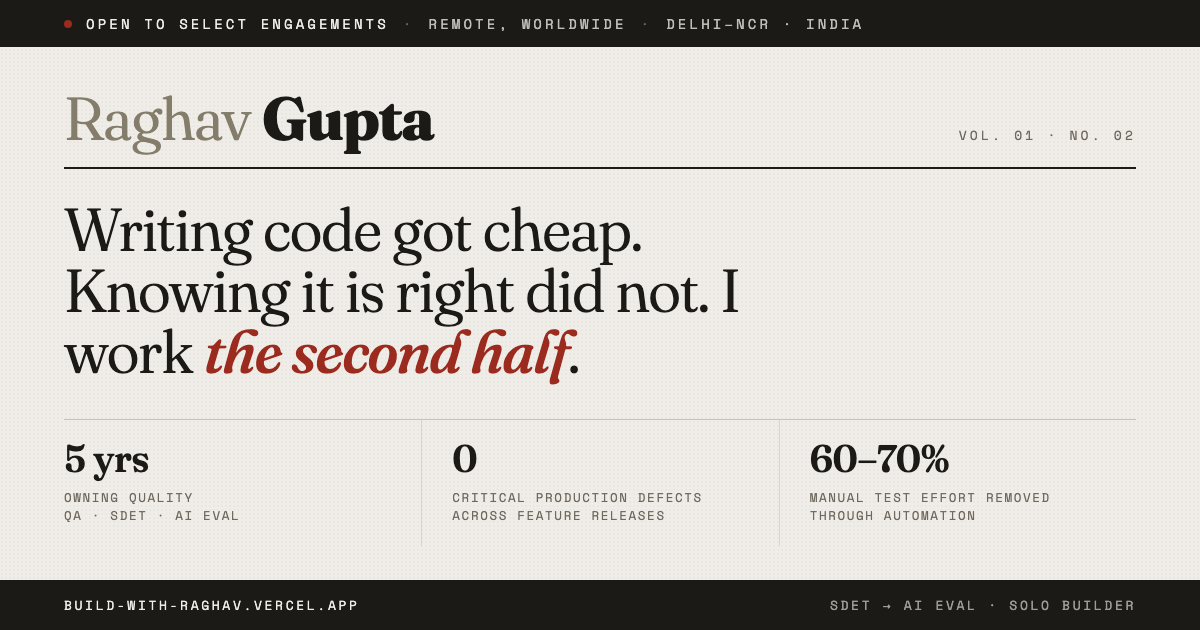
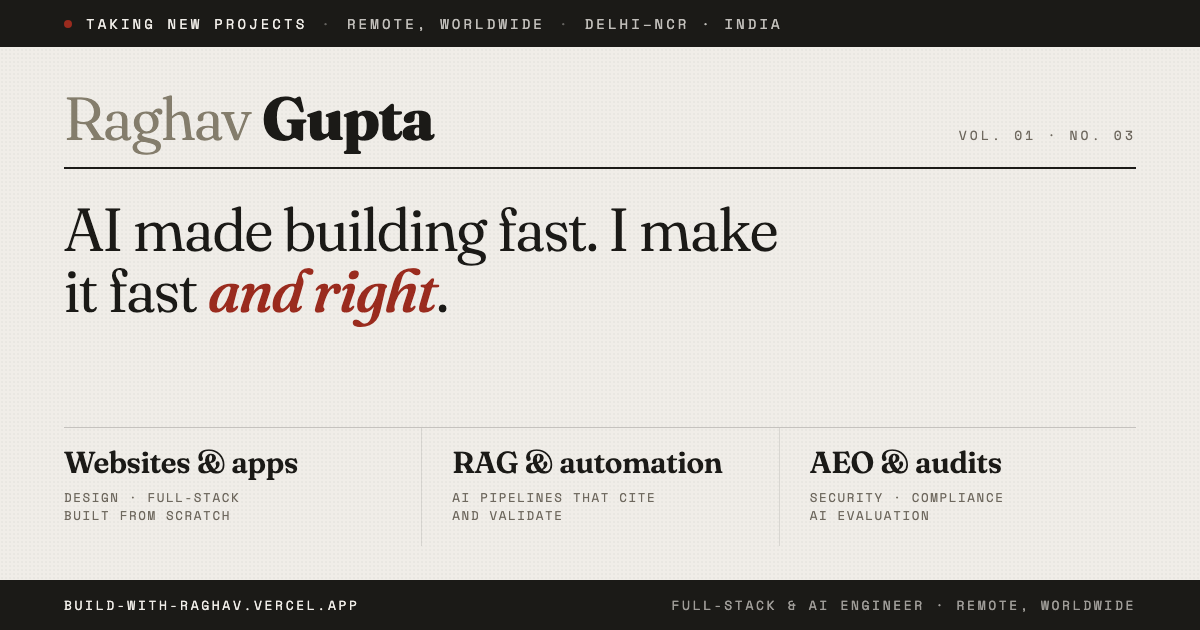
chore(og): re-shoot the social card with the new headline

diff --git a/scripts/og-image.html b/scripts/og-image.html
@@ -53,7 +53,7 @@
     border-top:1px solid var(--rule);padding-bottom:34px}
   .fig{padding:20px 30px;border-left:1px solid var(--rule-soft)}
   .fig:first-child{border-left:0;padding-left:0}
-  .fig .n{font-family:var(--display);font-weight:600;font-size:38px;line-height:1;letter-spacing:-.01em}
+  .fig .n{font-family:var(--display);font-weight:600;font-size:30px;line-height:1;letter-spacing:-.01em}
   .fig .l{font-family:var(--mono);font-size:12.5px;letter-spacing:.13em;text-transform:uppercase;
     color:var(--muted);margin-top:11px;line-height:1.5}
   .foot{background:var(--ink);color:rgba(240,237,232,.62);font-family:var(--mono);font-size:13px;
@@ -65,7 +65,7 @@
 <body>
   <div class="ribbon">
     <span class="dot"></span>
-    <span class="b">Open to select engagements</span>
+    <span class="b">Taking new projects</span>
     <span class="sep">·</span>
     <span>Remote, worldwide</span>
     <span class="sep">·</span>
@@ -75,30 +75,30 @@
   <div class="body">
     <div class="brand">
       <span class="wordmark"><span class="a1">Raghav</span><span class="a2">Gupta</span></span>
-      <span class="issue">Vol. 01 · No. 02</span>
+      <span class="issue">Vol. 01 · No. 03</span>
     </div>
 
-    <h1>Writing code got cheap. Knowing it is right did not. I work <em>the second half</em>.</h1>
+    <h1>AI made building fast. I make it fast <em>and right</em>.</h1>
 
     <div class="figures">
       <div class="fig">
-        <div class="n">5 yrs</div>
-        <div class="l">Owning quality<br />QA · SDET · AI eval</div>
+        <div class="n">Websites &amp; apps</div>
+        <div class="l">Design · full-stack<br />built from scratch</div>
       </div>
       <div class="fig">
-        <div class="n">0</div>
-        <div class="l">Critical production defects<br />across feature releases</div>
+        <div class="n">RAG &amp; automation</div>
+        <div class="l">AI pipelines that cite<br />and validate</div>
       </div>
       <div class="fig">
-        <div class="n">60–70%</div>
-        <div class="l">Manual test effort removed<br />through automation</div>
+        <div class="n">AEO &amp; audits</div>
+        <div class="l">Security · compliance<br />AI evaluation</div>
       </div>
     </div>
   </div>
 
   <div class="foot">
     <span class="a">build-with-raghav.vercel.app</span>
-    <span>SDET → AI eval · Solo builder</span>
+    <span>Full-stack &amp; AI engineer · Remote, worldwide</span>
   </div>
 </body>
 </html>
